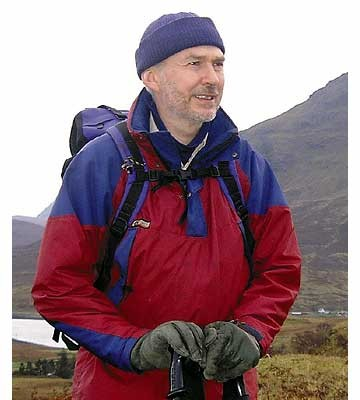
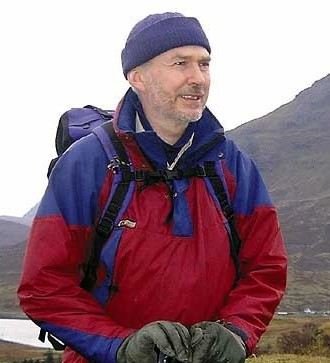
Update image aspect ratio for improved display in Recommendations component

diff --git a/components/Recommendations.tsx b/components/Recommendations.tsx
@@ -51,7 +51,7 @@ export default function Recommendations() {
                 <Image
                   alt={feature.imageAlt}
                   src={feature.imageSrc}
-                  className="aspect-1/1.2 w-full h-full max-w-[300px] rounded-lg object-cover mx-auto"
+                  className="aspect-1/1 w-full h-full max-w-[300px] rounded-lg object-cover mx-auto"
                   width={500}
                   height={500}
                 />
